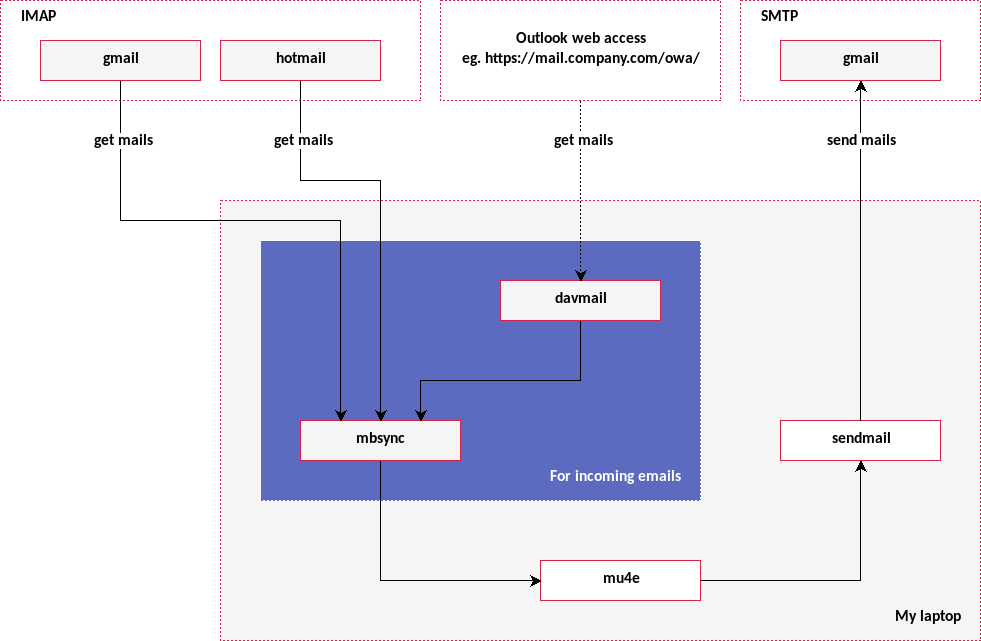
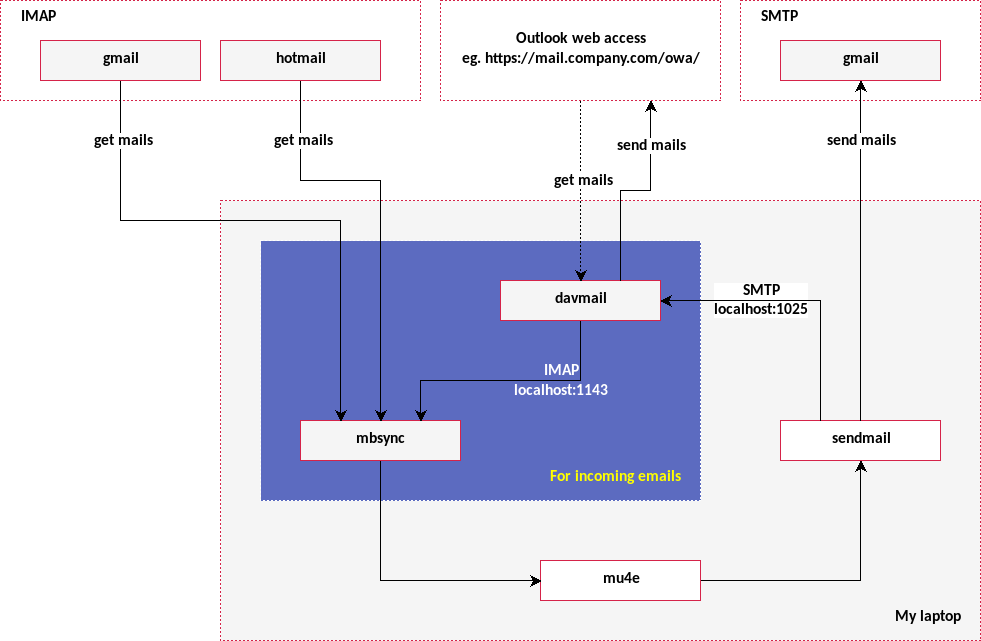
Update mbsync.md diagram.

diff --git a/content/dev/mbsync.md b/content/dev/mbsync.md
@@ -475,6 +475,13 @@ things you need to do:
 
 # Outlook webmail
 
+<figure class="col l6 m6 s12">
+  <img src="images/davmail.png"
+       class="center img-responsive">
+  <figcaption>davmail settings</figcaption>
+</figure>
+
+
 Working outlook/exchange server is tough. The company's server changes
 configuration all the time, and it completly messed up w/ IMAP login
 when one server allows `PLAIN` while another requires `NTLM`, and so
@@ -484,17 +491,11 @@ anymore! Fall back is Thunderbird, but then, once you are used to
 `mu4e`, going back to anything looked like outlook is a pain.
 
 Finally, here is a savior,
-[davmail](http://davmail.sourceforge.net/). It works a gateway between
+[davmail](http://davmail.sourceforge.net/)[^1]. It works a gateway between
 your computer and outlook web mail (aka. OWA &mdash; outlook web
 access). So you can now point your `mbsync` to a local port (default
 `1143`, and davmail will route mbsync's IMAP requests to the remote
 OWA server, nice!
-
-<figure class="col s12">
-  <img src="images/mbsync%20setup.png"
-       class="center img-responsive">
-  <figcaption>My mbsync setup for retrieving and sending mails</figcaption>
-</figure>
 
 The `mbsync` config is quite straightforward:
 
@@ -509,11 +510,21 @@ SSLType None
 AuthMech LOGIN
 ```
 
-and here is the `davmail` settings:
+and here is the `davmail` [settings][1] (copy it to
+`~/.davmail.properties`). The best way to run it is to use a tmux,
+then run it as background process `davmail &`. Alternatively, you can
+set `davmail.server=true`, then use `nohup`. But w/ tmux running
+dettached session., I really don't see any benefit of doing this
+anymore.
 
 <figure class="col s12">
-  <img src="images/davmail.png"
+  <img src="images/mbsync%20setup.png"
        class="center img-responsive">
-  <figcaption>davmail settings</figcaption>
+  <figcaption>My mbsync setup for retrieving and sending mails</figcaption>
 </figure>
+
+
+[1]: {static}/downloads/davmail.properties
+[^1]: Btw, I was having issue w/ v5.3.1. Downgrade it to 5.2 (released
+    in Aug 2019) worked out better.
 

diff --git a/content/dev/my system.md b/content/dev/my system.md
@@ -153,6 +153,7 @@ over cleanly:
    find which versions are available for installation.
 2. Update npm `npm install npm@latest -g`.
 3. Install bower, `npm install -g bower `.
+4. Now go to `myblog/template/feng/static`, and run `bower install`.
 
 # zsh
 
@@ -192,8 +193,8 @@ Under `~/.config`, find two folder named `i3/` and `i3status`. Copy
 [2]: https://wiki.archlinux.org/index.php/HiDPI
 [3]: https://github.com/nvm-sh/nvm
 [4]: https://dev.to/mskian/install-z-shell-oh-my-zsh-on-ubuntu-1804-lts-4cm4
-[5]: {filename}/downloads/i3.conf
-[6]: {filename}/downloads/i3status.conf
+[5]: {static}/downloads/i3.conf
+[6]: {static}/downloads/i3status.conf
 
 
 [^1]: To check screen resolution: `xdpyinfo | grep dimensions`.
